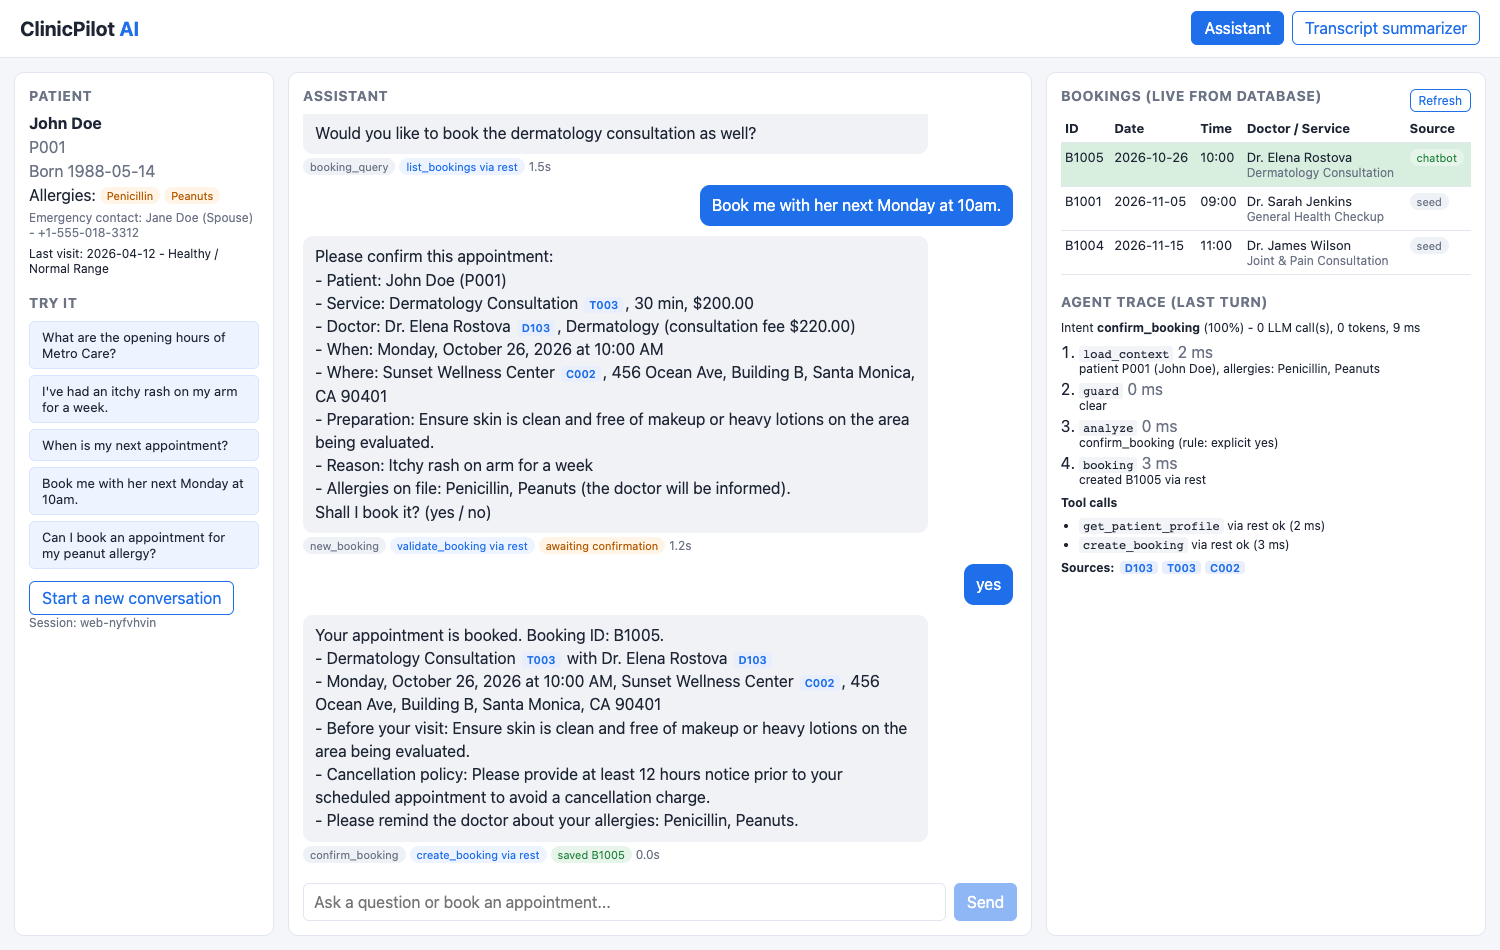
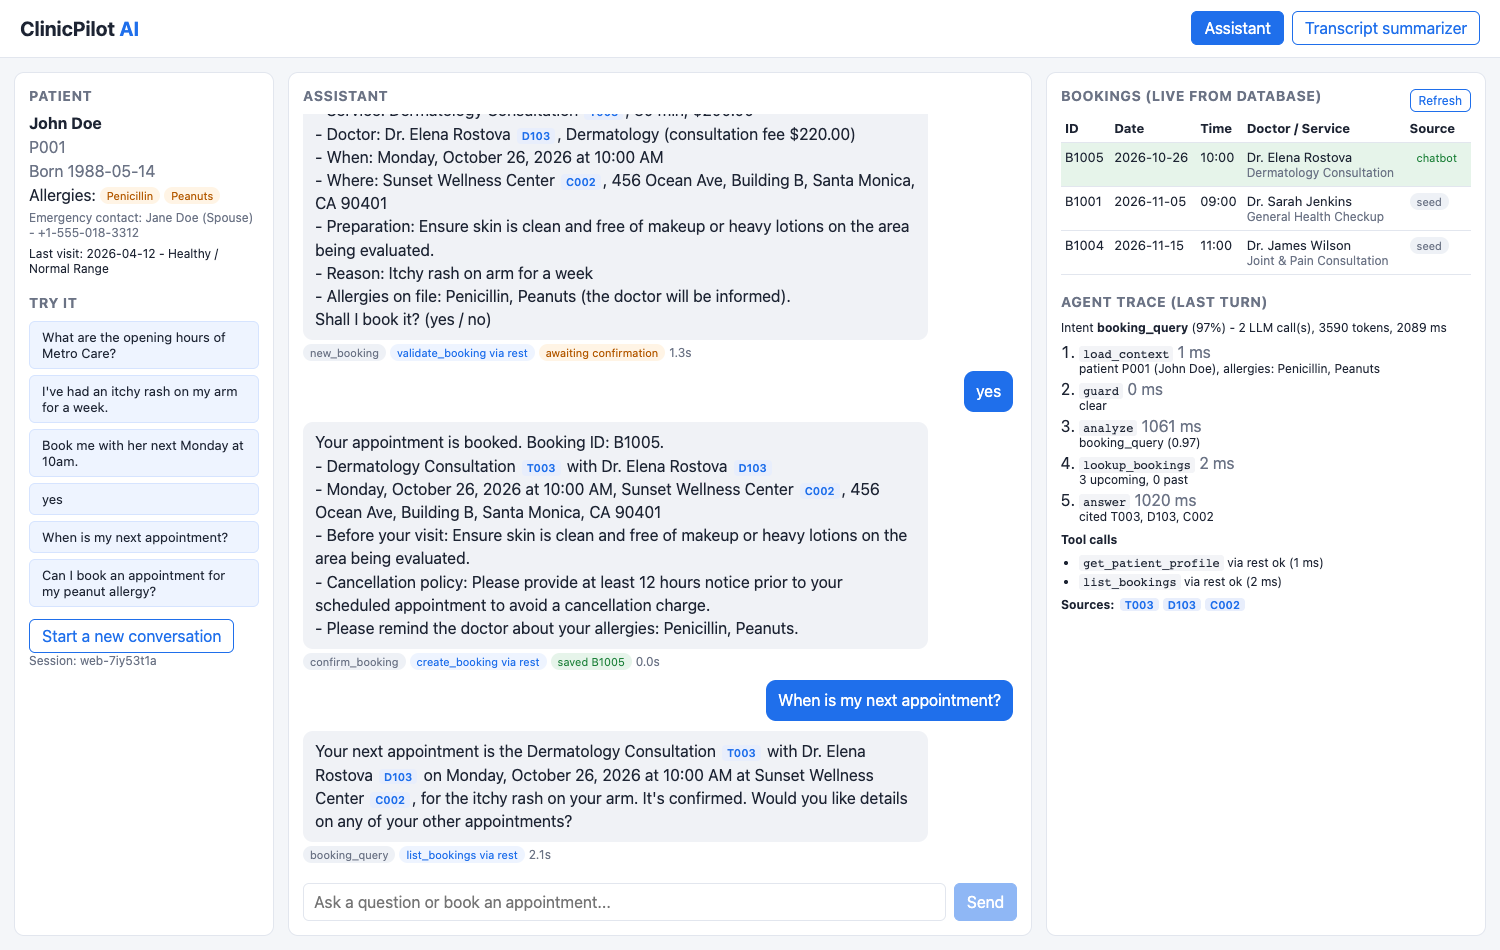
Refresh eval report and screenshots

diff --git a/TECH_DOC.md b/TECH_DOC.md
@@ -221,7 +221,7 @@ CI (`.github/workflows/ci.yml`) runs the backend suites, the AI-service suite on
 | Intent accuracy | 36 / 36 turns (100%) |
 | Checks passed | 89 / 89 (intent, citations, tools, reply content, confirmation state, booking outcome) |
 | Booking outcome accuracy | 13 / 13 (booked exactly when expected, never otherwise) |
-| Latency p50 / p95 | 1.2 s / 2.4 s |
+| Latency p50 / p95 | 1.2-1.3 s / 2.4-2.6 s (three runs) |
 | Tokens per turn (avg) | ~1,750 |
 
 Cases cover clinic info (hours, fees, languages, policies, preparation), symptom recommendations, booking queries, five booking paths (happy path, one-shot, pronoun reference after a recommendation, step-by-step slot filling, change before confirming), closed-day rejection, specialty mismatch, abandon, allergy, emergency, prompt injection, cancel request, out-of-scope and small talk. The latest report is written to `evals/results/latest.md`.

diff --git a/README.md b/README.md
@@ -164,7 +164,7 @@ make test        # backend unit + API tests, AI-service offline tests (no API ke
 make eval        # 24 scripted conversations against the running stack with the real LLM
 ```
 
-Latest evaluation: 24/24 cases, 36/36 intents, 89/89 checks, p50 latency 1.2-1.3 s (two runs). See `evals/results/latest.md`. The eval expects the seed data, so `make eval` resets demo bookings before and after.
+Latest evaluation: 24/24 cases, 36/36 intents, 89/89 checks, p50 latency 1.2-1.3 s (three runs). See `evals/results/latest.md`. The eval expects the seed data, so `make eval` resets demo bookings before and after.
 
 ## Troubleshooting
 

diff --git a/evals/results/latest.md b/evals/results/latest.md
@@ -1,6 +1,6 @@
 # ClinicPilot AI - scenario evaluation
 
-Run: 2026-10-22 02:55 against `http://localhost:3000/api`
+Run: 2026-10-22 03:16 against `http://localhost:3000/api`
 
 | Metric | Value |
 |---|---|
@@ -8,9 +8,9 @@ Run: 2026-10-22 02:55 against `http://localhost:3000/api`
 | intent accuracy | 36/36 (100%) |
 | checks passed | 89/89 (100%) |
 | booking outcome accuracy | 13/13 |
-| latency ms p50 | 1208 |
-| latency ms p95 | 2425 |
-| avg tokens per turn | 1749 |
+| latency ms p50 | 1235 |
+| latency ms p95 | 2614 |
+| avg tokens per turn | 1751 |
 
 | Case | Turns | Result |
 |---|---|---|
